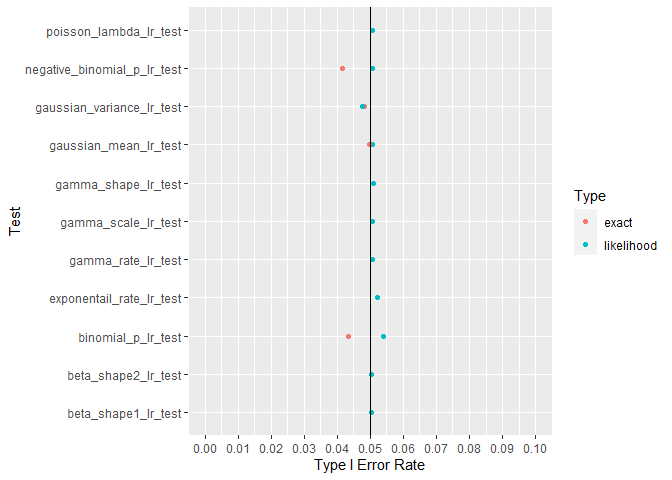
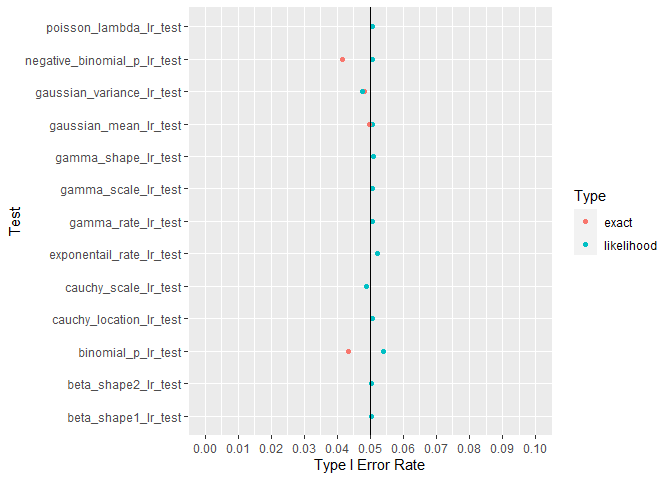
add cauchy to Rmarkdowns

diff --git a/type I/README.md b/type I/README.md
@@ -66,3 +66,7 @@ In the aggregate, the likelihood test performs similarly to other
 likelihood tests across alternative hypotheses.
 
 <img src="man/figures/README-negativeBonimialTypeI2-1.png" width="100%" />
+
+## Cauchy
+
+<img src="man/figures/README-cauchyTypeI-1.png" width="100%" /><img src="man/figures/README-cauchyTypeI-2.png" width="100%" />

diff --git a/type II/README.md b/type II/README.md
@@ -51,3 +51,7 @@ To check the above, one graph is shown per test.
 ## Negative Binomial
 
 <img src="man/figures/README-negativeBonimialTypeII-1.png" width="100%" />
+
+## Cauchy
+
+<img src="man/figures/README-CauchyTypeII-1.png" width="100%" />
